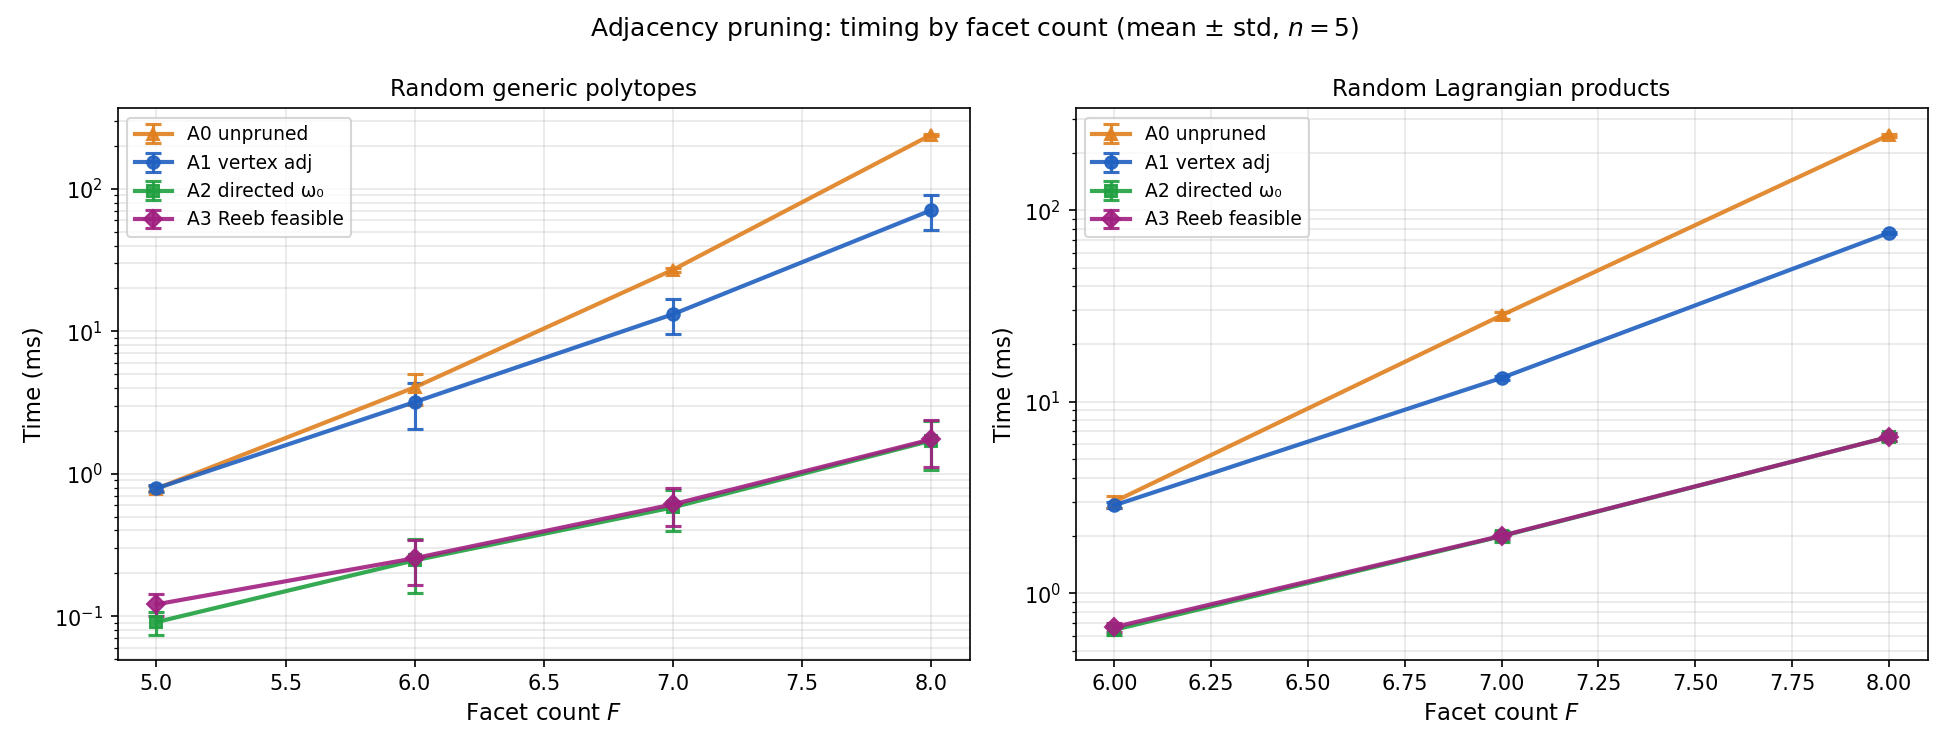
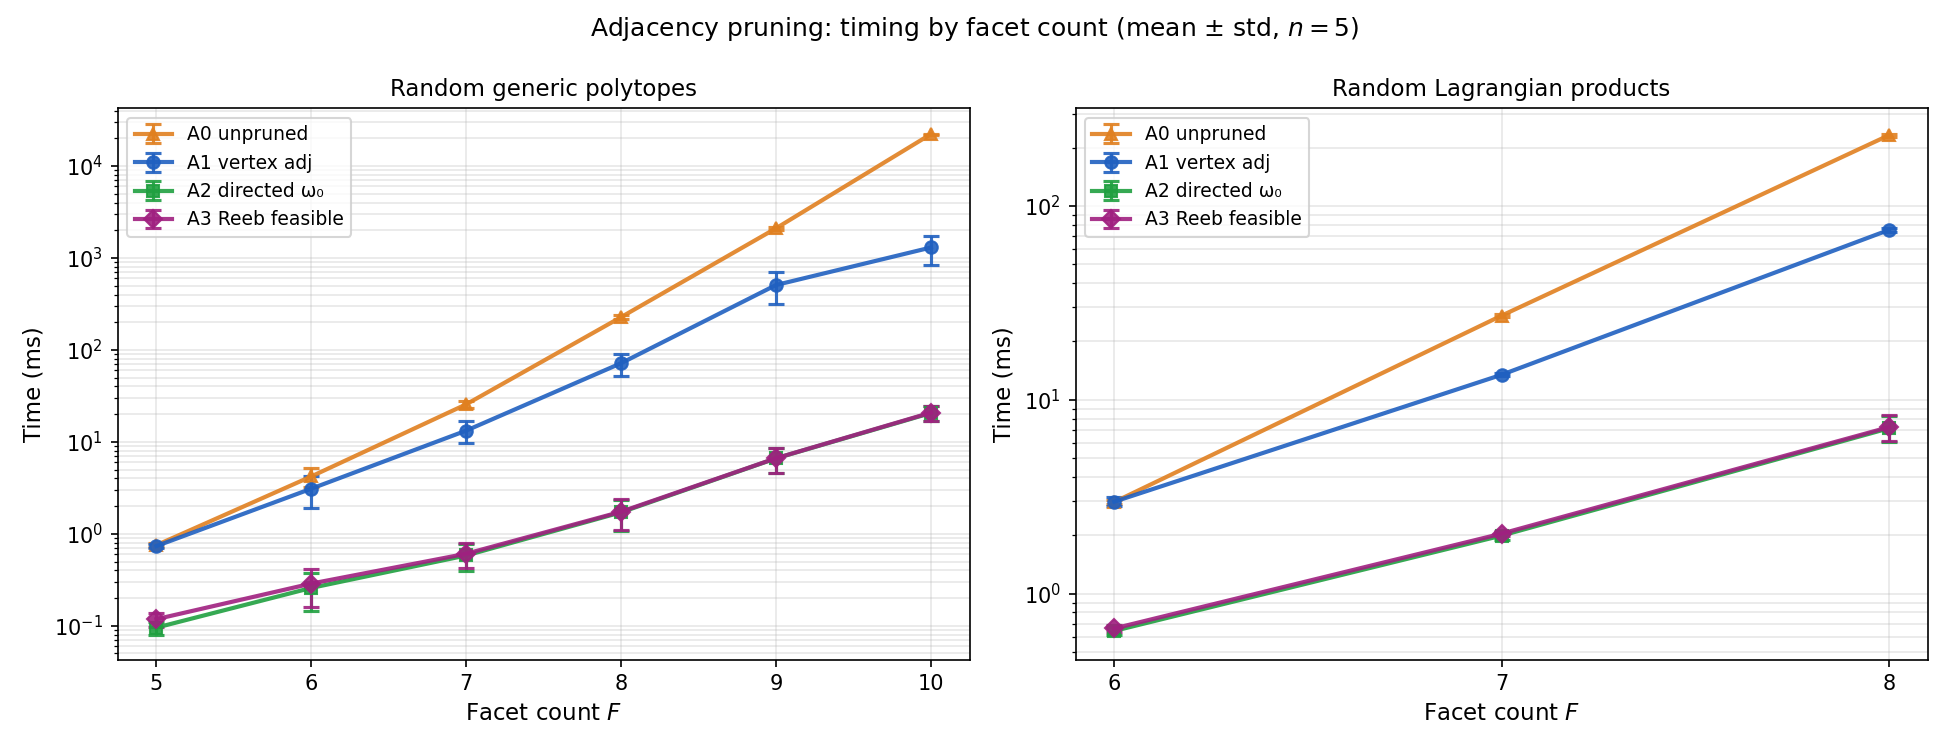
Update ablation.py: scaling exponent fit, non-simple table, F=5..10
- Add fit_scaling_exponent(): A2/A0 ≈ 28.3·exp(-1.05F), R²=0.96
- Add print_nonsimple_table(): shows A2 vs A3 for non-simple polytopes
  - Bipyramids: A3 prunes 98%+ of A2 candidates (13.5k→213)
  - Cut simplices: A3 prunes ~15% across all depths
- Add "non_simple" to GROUPS list
- Set integer x-ticks on timing figure for F=5..10
- Regenerated ablation_timing.png with extended data

diff --git a/experiments/ablation/ablation.py b/experiments/ablation/ablation.py
@@ -28,7 +28,7 @@ VARIANT_LABELS = {
     "a2_omega_directed": "A2 directed ω₀",
     "a3_reeb_feasible": "A3 Reeb feasible",
 }
-GROUPS = ["random_generic", "random_lagrangian", "regression"]
+GROUPS = ["random_generic", "random_lagrangian", "regression", "non_simple"]
 
 
 # ============================================================================
@@ -244,6 +244,106 @@ def print_regression_table(entries):
 
 
 # ============================================================================
+# Non-simple polytopes: A2 vs A3 comparison
+# ============================================================================
+
+def print_nonsimple_table(entries):
+    """Print A2 vs A3 iteration comparison for non-simple polytopes."""
+    # Include both the "non_simple" group and the original regression cut simplex
+    nonsimple = [
+        e for e in entries
+        if e["group"] == "non_simple" or e["polytope_name"] == "regression_cut_simplex"
+    ]
+    if not nonsimple:
+        return
+
+    by_polytope = defaultdict(dict)
+    for e in nonsimple:
+        by_polytope[e["polytope_name"]][e["variant"]] = e
+
+    print("\n=== Non-Simple Polytopes: A2 vs A3 ===")
+    print(f"{'Polytope':<35} {'F':>3} {'A2 iters':>10} {'A3 iters':>10} {'Pruned':>8} {'%':>6}")
+    print("-" * 78)
+
+    for name in sorted(by_polytope.keys()):
+        variants = by_polytope[name]
+        f = next(iter(variants.values()))["facet_count"]
+        a2 = variants.get("a2_omega_directed", {}).get("iterations", 0)
+        a3 = variants.get("a3_reeb_feasible", {}).get("iterations", 0)
+        pruned = a2 - a3
+        pct = 100.0 * pruned / a2 if a2 > 0 else 0.0
+        marker = " *" if pruned > 0 else ""
+        print(f"{name:<35} {f:>3} {a2:>10} {a3:>10} {pruned:>8} {pct:>5.1f}%{marker}")
+
+    print()
+
+
+# ============================================================================
+# Scaling exponent fit
+# ============================================================================
+
+def fit_scaling_exponent(entries):
+    """Fit A2/A0 iteration ratio as exponential in F for random_generic polytopes.
+
+    Model: iterations_A2 / iterations_A0 = a * exp(b * F)
+    Equivalently: log(ratio) = log(a) + b * F  (linear fit in log space).
+
+    Returns (a, b, r_squared) or None if insufficient data.
+    """
+    generic = [e for e in entries if e["group"] == "random_generic"]
+    by_f_variant = defaultdict(lambda: defaultdict(list))
+    for e in generic:
+        by_f_variant[e["facet_count"]][e["variant"]].append(e["iterations"])
+
+    f_vals = sorted(by_f_variant.keys())
+    if len(f_vals) < 3:
+        print("\n=== Scaling Exponent: insufficient data (need ≥3 F values) ===")
+        return None
+
+    ratios = []
+    f_points = []
+    for f in f_vals:
+        a0_iters = by_f_variant[f].get("a0_unpruned", [])
+        a2_iters = by_f_variant[f].get("a2_omega_directed", [])
+        if a0_iters and a2_iters:
+            mean_a0 = float(np.mean(a0_iters))
+            mean_a2 = float(np.mean(a2_iters))
+            if mean_a0 > 0 and mean_a2 > 0:
+                ratios.append(mean_a2 / mean_a0)
+                f_points.append(f)
+
+    if len(f_points) < 3:
+        print("\n=== Scaling Exponent: insufficient valid ratios ===")
+        return None
+
+    f_arr = np.array(f_points, dtype=float)
+    log_ratios = np.log(np.array(ratios))
+
+    # Linear fit: log(ratio) = b * F + log(a)
+    coeffs = np.polyfit(f_arr, log_ratios, 1)
+    b = coeffs[0]
+    log_a = coeffs[1]
+    a = np.exp(log_a)
+
+    # R² for goodness of fit
+    predicted = np.polyval(coeffs, f_arr)
+    ss_res = np.sum((log_ratios - predicted) ** 2)
+    ss_tot = np.sum((log_ratios - np.mean(log_ratios)) ** 2)
+    r_squared = 1.0 - ss_res / ss_tot if ss_tot > 0 else 0.0
+
+    print("\n=== Scaling Exponent: A2/A0 iteration ratio vs F ===")
+    print(f"Model: ratio = a * exp(b * F)")
+    print(f"  a = {a:.4f}")
+    print(f"  b = {b:.4f}  (scaling exponent)")
+    print(f"  R² = {r_squared:.6f}")
+    print(f"  Data points: F = {f_points}")
+    print(f"  Ratios:      {[f'{r:.4f}' for r in ratios]}")
+    print()
+
+    return a, b, r_squared
+
+
+# ============================================================================
 # Figure
 # ============================================================================
 
@@ -306,6 +406,11 @@ def plot_timing(entries):
         ax.set_title(group_display[group], fontsize=11)
         ax.legend(fontsize=9)
         ax.grid(True, alpha=0.3, which="both")
+        # Integer x-ticks for facet count
+        all_f = sorted(set(
+            e["facet_count"] for e in entries if e["group"] == group
+        ))
+        ax.set_xticks(all_f)
 
     fig.suptitle(
         "Adjacency pruning: timing by facet count (mean $\\pm$ std, $n=5$)",
@@ -333,6 +438,8 @@ def main():
     n_disagree = print_agreement_table(entries)
     print_timing_table(entries)
     print_iteration_table(entries)
+    print_nonsimple_table(entries)
+    fit_scaling_exponent(entries)
     plot_timing(entries)
 
     if n_disagree > 0:
